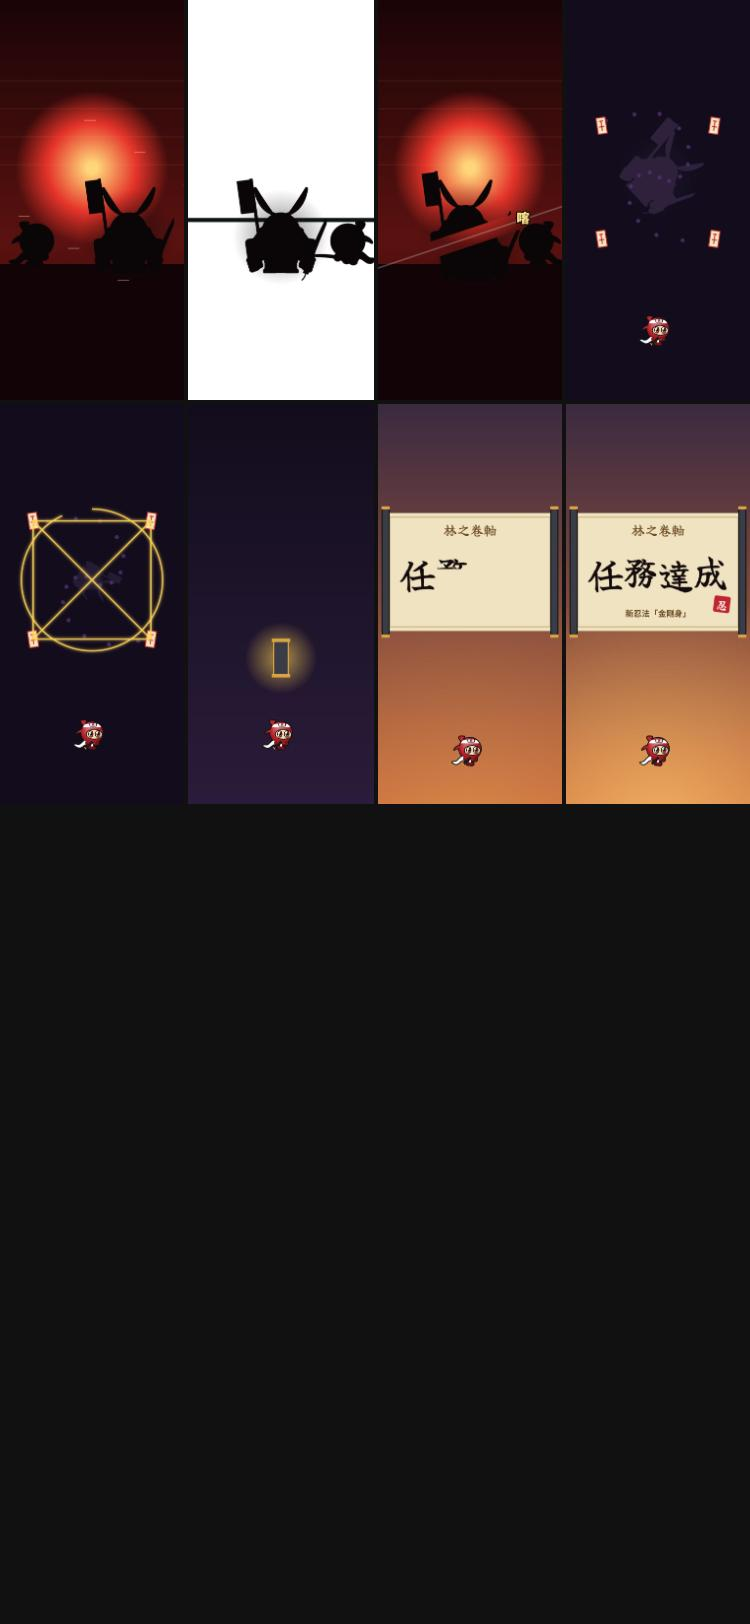
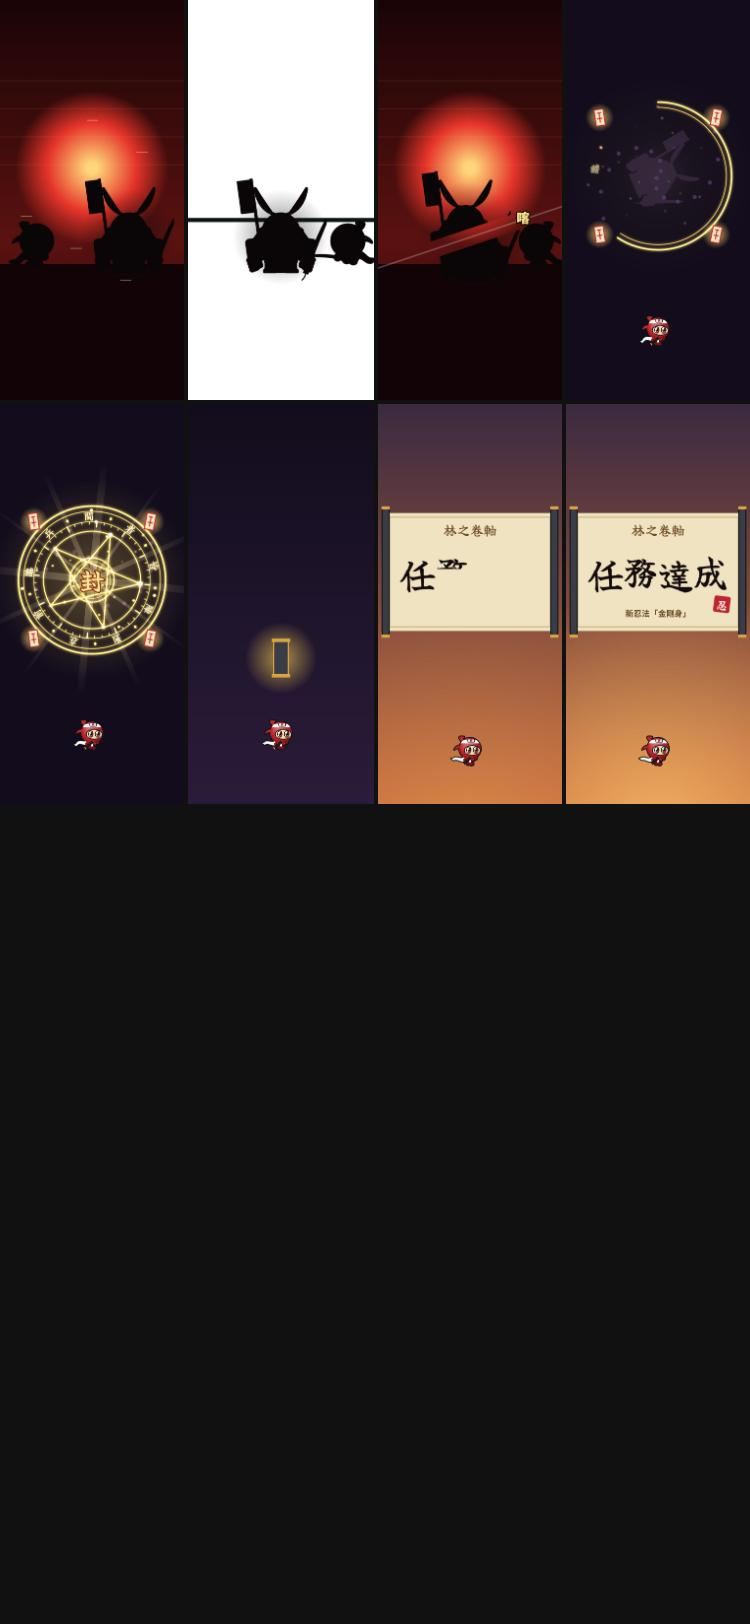
封印陣改為華麗版：外圈雙環、九字環（臨兵闘者皆陣烈在前）、反向刻度環、五芒星與光珠、內圈「封」、放射光與飄升光點；九字加入毛筆字子集（v77）

Changed region(s): [[0.0, 0.3079, 0.2453, 0.431], [0.7667, 0.0616, 0.9813, 0.1539], [0.7667, 0.0616, 0.828, 0.0924]]

diff --git a/game.js b/game.js
@@ -344,7 +344,7 @@ function musicFor() {
 function vib(ms) { if (save.opt.vib && navigator.vibrate) try { navigator.vibrate(ms); } catch (e) { } }
 
 // ===== 畫面尺寸 =====
-const APP_VER = 'v76';   // 顯示在設定頁的診斷資訊，方便對照手機上跑的是哪一版
+const APP_VER = 'v77';   // 顯示在設定頁的診斷資訊，方便對照手機上跑的是哪一版
 const IS_IOS = /iP(hone|ad|od)/.test(navigator.userAgent) || (navigator.platform === 'MacIntel' && navigator.maxTouchPoints > 1);
 // 手機：觸控為主、螢幕短邊小於 600（iPad 與電腦不算）
 const IS_PHONE = matchMedia('(pointer: coarse)').matches && Math.min(screen.width, screen.height) < 600;
@@ -1688,6 +1688,74 @@ function updateFin(dt) {
   if (at(3.9)) { SFX.impact(); vib(40); }
   if (g.finT >= FIN_T) { if (g.preview) { g.finT = 0; if (ac && musV()) BGM.jingle(ac, 'finish'); } else finishBoss(true); }   // ?finshow 預覽：重播、不寫存檔
 }
+// 封印陣：外圈雙環＋九字環（臨兵闘者皆陣烈在前）＋反向旋轉的刻度環＋五芒星＋內圈「封」，依進度 L 依序浮現；k＝整段進度（最後放光）
+function drawSeal(x, y, R, L, k, T) {
+  const G = '255,214,90', ph = f => clamp((L - f[0]) / (f[1] - f[0]), 0, 1);   // 每一層的出現進度
+  ctx.save(); ctx.translate(x, y);
+  // 底光
+  const bg = ctx.createRadialGradient(0, 0, R * .1, 0, 0, R * 1.35); bg.addColorStop(0, `rgba(${G},${.28 * L})`); bg.addColorStop(.7, `rgba(${G},${.08 * L})`); bg.addColorStop(1, `rgba(${G},0)`);
+  ctx.fillStyle = bg; ctx.fillRect(-R * 1.4, -R * 1.4, R * 2.8, R * 2.8);
+  ctx.globalCompositeOperation = 'lighter'; ctx.shadowColor = `rgb(${G})`; ctx.lineCap = 'round';
+  const ring = (r, w, p, a = 1) => { if (p <= 0) return; ctx.strokeStyle = `rgba(${G},${a})`; ctx.lineWidth = w; ctx.shadowBlur = 10; ctx.beginPath(); ctx.arc(0, 0, r, -Math.PI / 2, -Math.PI / 2 + TAU * p); ctx.stroke(); };
+  // ① 外圈雙環
+  const p1 = ph([0, .3]); ring(R, 3, p1); ring(R * .93, 1.5, p1, .8);
+  // ② 九字環：在兩圈之間繞著轉
+  const p2 = ph([.15, .55]), rot = T * .35;
+  if (p2 > 0) {
+    const W9 = [...'臨兵闘者皆陣烈在前'];
+    ctx.font = `${Math.round(R * .14)}px ${BRUSH}`; ctx.textAlign = 'center'; ctx.textBaseline = 'middle'; ctx.shadowBlur = 8;
+    W9.forEach((ch, i) => {
+      const a = rot + i / W9.length * TAU, v = clamp(p2 * W9.length - i, 0, 1); if (v <= 0) return;
+      ctx.save(); ctx.rotate(a); ctx.translate(0, -R * .865); ctx.globalCompositeOperation = 'source-over';   // 字用一般疊色，才不會被光暈吃掉
+      ctx.fillStyle = `rgba(255,244,205,${v})`; ctx.fillText(ch, 0, 0); ctx.restore();
+      ctx.save(); ctx.rotate(a + TAU / W9.length / 2); ctx.fillStyle = `rgba(${G},${v * .9})`; ctx.beginPath(); ctx.moveTo(0, -R * .89); ctx.lineTo(3, -R * .865); ctx.lineTo(0, -R * .84); ctx.lineTo(-3, -R * .865); ctx.closePath(); ctx.fill(); ctx.restore();   // 字與字之間的菱形
+    });
+  }
+  // ③ 刻度環（反向旋轉）
+  const p3 = ph([.3, .6]);
+  if (p3 > 0) {
+    ring(R * .79, 1.2, p3, .9);
+    ctx.save(); ctx.rotate(-T * .6); ctx.strokeStyle = `rgba(${G},${.85 * p3})`; ctx.shadowBlur = 4;
+    for (let i = 0; i < 48; i++) { const a = i / 48 * TAU, l = i % 4 ? 5 : 10; ctx.lineWidth = i % 4 ? 1 : 2; ctx.beginPath(); ctx.moveTo(Math.cos(a) * R * .79, Math.sin(a) * R * .79); ctx.lineTo(Math.cos(a) * (R * .79 - l), Math.sin(a) * (R * .79 - l)); ctx.stroke(); }
+    ctx.restore();
+  }
+  // ④ 五芒星＋外接圓（跟著九字環慢慢轉），頂點有光珠
+  const p4 = ph([.45, .8]);
+  if (p4 > 0) {
+    const r5 = R * .66; ring(r5, 2, p4, .9);
+    ctx.save(); ctx.rotate(rot * .6); ctx.strokeStyle = `rgba(${G},.95)`; ctx.lineWidth = 2.4; ctx.shadowBlur = 12;
+    const pts = [0, 2, 4, 1, 3, 0].map(i => [Math.cos(-Math.PI / 2 + i * TAU / 5) * r5, Math.sin(-Math.PI / 2 + i * TAU / 5) * r5]);
+    ctx.beginPath(); let len = 0; const seg = 5 * p4;
+    ctx.moveTo(pts[0][0], pts[0][1]);
+    for (let i = 1; i < pts.length; i++) { const f = clamp(seg - (i - 1), 0, 1); if (f <= 0) break; ctx.lineTo(pts[i - 1][0] + (pts[i][0] - pts[i - 1][0]) * f, pts[i - 1][1] + (pts[i][1] - pts[i - 1][1]) * f); len++; }
+    ctx.stroke();
+    for (let i = 0; i < 5; i++) if (seg > i) { const a = -Math.PI / 2 + i * TAU / 5, px = Math.cos(a) * r5, py = Math.sin(a) * r5; ctx.fillStyle = 'rgba(255,248,210,.95)'; ctx.beginPath(); ctx.arc(px, py, 3.5 + Math.sin(T * 8 + i) * 1, 0, TAU); ctx.fill(); }
+    ctx.restore();
+  }
+  // ⑤ 內圈＋「封」
+  const p5 = ph([.7, 1]);
+  if (p5 > 0) {
+    ring(R * .3, 2, p5); ring(R * .25, 1, p5, .7);
+  }
+  // 最後：光柱般的放射光
+  if (k > .78) {
+    const f = (k - .78) / .22; ctx.shadowBlur = 0;
+    for (let i = 0; i < 12; i++) { const a = i / 12 * TAU + T * .5, gl = ctx.createLinearGradient(0, 0, Math.cos(a) * R * 1.6, Math.sin(a) * R * 1.6); gl.addColorStop(0, `rgba(255,240,190,${.5 * f})`); gl.addColorStop(1, 'rgba(255,240,190,0)');
+      ctx.strokeStyle = gl; ctx.lineWidth = 6 + (i % 3) * 4; ctx.beginPath(); ctx.moveTo(0, 0); ctx.lineTo(Math.cos(a) * R * 1.6, Math.sin(a) * R * 1.6); ctx.stroke(); }
+  }
+  // 往上飄的金色光點
+  ctx.shadowBlur = 6;
+  for (let i = 0; i < 26; i++) { const u = (T * .5 + i * .137) % 1, a = i * 2.39, r = R * (.2 + (i * .31) % .9); ctx.fillStyle = `rgba(255,230,150,${(1 - u) * L * .9})`; ctx.beginPath(); ctx.arc(Math.cos(a) * r, Math.sin(a) * r * .9 - u * 40, 1.6 + (i % 3) * .6, 0, TAU); ctx.fill(); }
+  // 中央的「封」：深紅描邊＋金字，蓋在所有光的上面
+  const p5b = ph([.7, 1]);
+  if (p5b > 0) {
+    ctx.globalCompositeOperation = 'source-over'; ctx.shadowBlur = 14; ctx.shadowColor = 'rgba(255,214,90,.9)';
+    const s = 1 + .6 * (1 - easeO(p5b)); ctx.scale(s, s);
+    ctx.font = `${Math.round(R * .34)}px ${BRUSH}`; ctx.textAlign = 'center'; ctx.textBaseline = 'middle'; ctx.globalAlpha = p5b;
+    ctx.lineWidth = 5; ctx.strokeStyle = '#6a120c'; ctx.strokeText('封', 0, 2); ctx.fillStyle = '#ffe9a0'; ctx.fillText('封', 0, 2);
+  }
+  ctx.restore();
+}
 function drawFin() {
   const e = g.finT, b = g.boss, fi = g.finInfo || {}, cx = W / 2, T = performance.now() / 1000;
   const bossSil = (x, y, s, col) => drawSil(x, y, 150 * s, 150 * s, 75 * s, 80 * s, col, c2 => drawBoss(b, 0, 0, s, c2));
@@ -1725,22 +1793,17 @@ function drawFin() {
     ctx.save(); ctx.translate(ccx, ccy); ctx.rotate(k * 3); ctx.globalAlpha = .85 - k * .5;
     drawSil(0, 0, 150 * 1.6, 150 * 1.6, 75 * 1.6, 80 * 1.6, '#3a2a4a', c2 => drawBoss(b, 0, 0, 1.6 * (1 - k * .85), c2)); ctx.restore(); ctx.globalAlpha = 1;
     for (let i = 0; i < 16; i++) { const a = i / 16 * TAU + T * 3, r = S * 1.3 * (1 - ((T * .9 + i * .13) % 1)); ctx.fillStyle = 'rgba(80,50,110,.8)'; aCirc(ctx, ccx + Math.cos(a) * r, ccy + Math.sin(a) * r, 4); ctx.fill(); }
-    // 符咒飛到四角
-    const fly = easeO(clamp(k / .35, 0, 1));
+    // 金色封印陣（先畫，符咒蓋在上面）
+    const L = clamp((k - .3) / .5, 0, 1);
+    if (L > 0) drawSeal(ccx, ccy, S * 1.25, L, k, T);
+    // 符咒從主角手中飛到陣的四個斜角
+    const fly = easeO(clamp(k / .3, 0, 1)), FR = S * 1.25 * 1.12;
     corners.forEach(([sx, sy]) => {
-      const x = cx + (sx * S) * fly, y = H * .86 - 40 + (ccy + sy * S - (H * .86 - 40)) * fly;
-      ctx.save(); ctx.translate(x, y); ctx.rotate(sx * .15); ctx.fillStyle = '#f4e8c0'; ctx.fillRect(-9, -16, 18, 32); ctx.strokeStyle = '#c0262d'; ctx.lineWidth = 2; ctx.strokeRect(-9, -16, 18, 32);
+      const tx = ccx + sx * FR * .7071, ty = ccy + sy * FR * .7071, x = cx + (tx - cx) * fly, y = H * .86 - 40 + (ty - (H * .86 - 40)) * fly;
+      if (fly >= 1) { ctx.save(); ctx.globalCompositeOperation = 'lighter'; const gl = ctx.createRadialGradient(x, y, 2, x, y, 28); gl.addColorStop(0, 'rgba(255,214,90,.7)'); gl.addColorStop(1, 'rgba(255,214,90,0)'); ctx.fillStyle = gl; ctx.fillRect(x - 30, y - 30, 60, 60); ctx.restore(); }
+      ctx.save(); ctx.translate(x, y); ctx.rotate(sx * .15 + Math.sin(T * 6 + sx) * .05); ctx.fillStyle = '#f4e8c0'; ctx.fillRect(-9, -16, 18, 32); ctx.strokeStyle = '#c0262d'; ctx.lineWidth = 2; ctx.strokeRect(-9, -16, 18, 32);
       ctx.beginPath(); ctx.moveTo(-4, -9); ctx.lineTo(4, -9); ctx.moveTo(0, -9); ctx.lineTo(0, 10); ctx.moveTo(-5, 2); ctx.lineTo(5, 2); ctx.stroke(); ctx.restore();
     });
-    // 金色封印陣：四方形＋對角線＋圓，依序畫出來
-    const L = clamp((k - .35) / .4, 0, 1);
-    if (L > 0) {
-      ctx.strokeStyle = `rgba(255,214,90,${.9})`; ctx.lineWidth = 3; ctx.shadowColor = '#ffd25a'; ctx.shadowBlur = 12;
-      ctx.beginPath(); ctx.rect(ccx - S, ccy - S, S * 2, S * 2); ctx.globalAlpha = L; ctx.stroke();
-      ctx.beginPath(); ctx.moveTo(ccx - S, ccy - S); ctx.lineTo(ccx + S, ccy + S); ctx.moveTo(ccx + S, ccy - S); ctx.lineTo(ccx - S, ccy + S); ctx.stroke();
-      ctx.beginPath(); ctx.arc(ccx, ccy, S * 1.2, -Math.PI / 2, -Math.PI / 2 + TAU * L); ctx.stroke();
-      ctx.shadowBlur = 0; ctx.globalAlpha = 1;
-    }
     drawNinja(cx, H * .86, { face: 1, t: T, vy: 0, skin: save.skin, pose: 'apex' });
   } else {   // ⑤ 化為卷軸 → ⑥ 展開
     const [rc, ec] = MAKI_COL[fi.kind] || MAKI_COL[3];
@@ -2964,7 +3027,7 @@ document.addEventListener('click', e => {
 });
 
 applyLang();
-try { document.fonts.load('80px "Yuji Boku"', '豪天翔任務達成金剛身夢幻術雪華封鬼神斬風林火山之卷軸秘忍'); } catch (e) { }   // 先載好豪天翔卷軸的毛筆字（canvas 不會自己等字型）
+try { document.fonts.load('80px "Yuji Boku"', '豪天翔任務達成金剛身夢幻術雪華封鬼神斬風林火山之卷軸秘忍臨兵闘者皆陣烈在前'); } catch (e) { }   // 先載好豪天翔卷軸的毛筆字（canvas 不會自己等字型）
 buildHeroArt();   // 產生標題大圖與商店頭像（程式畫的主角）
 goTitle();
 if ('serviceWorker' in navigator && location.protocol.startsWith('http')) navigator.serviceWorker.register('sw.js').catch(() => { });

diff --git a/style.css b/style.css
@@ -1,7 +1,7 @@
 /* NINJA 鳶 — 介面風格「竹林夜襲」：月夜竹林、鐵灰金屬面板、金色鉚釘、紅色緞帶，全部粗黑描邊＋上緣高光 */
 @import url("https://fonts.googleapis.com/css2?family=Dela+Gothic+One&family=Noto+Sans+TC:wght@700;900&display=swap");
-/* 毛筆字（Yuji Boku，卷軸用）：只下載用到的字——豪天翔任務達成金剛身夢幻術雪華封鬼神斬風林火山之卷軸秘忍 */
-@import url("https://fonts.googleapis.com/css2?family=Yuji+Boku&display=swap&text=%E8%B1%AA%E5%A4%A9%E7%BF%94%E4%BB%BB%E5%8B%99%E9%81%94%E6%88%90%E9%87%91%E5%89%9B%E8%BA%AB%E5%A4%A2%E5%B9%BB%E8%A1%93%E9%9B%AA%E8%8F%AF%E5%B0%81%E9%AC%BC%E7%A5%9E%E6%96%AC%E9%A2%A8%E6%9E%97%E7%81%AB%E5%B1%B1%E4%B9%8B%E5%8D%B7%E8%BB%B8%E7%A7%98%E5%BF%8D");
+/* 毛筆字（Yuji Boku，卷軸用）：只下載用到的字——豪天翔任務達成金剛身夢幻術雪華封鬼神斬風林火山之卷軸秘忍臨兵闘者皆陣烈在前 */
+@import url("https://fonts.googleapis.com/css2?family=Yuji+Boku&display=swap&text=%E8%B1%AA%E5%A4%A9%E7%BF%94%E4%BB%BB%E5%8B%99%E9%81%94%E6%88%90%E9%87%91%E5%89%9B%E8%BA%AB%E5%A4%A2%E5%B9%BB%E8%A1%93%E9%9B%AA%E8%8F%AF%E5%B0%81%E9%AC%BC%E7%A5%9E%E6%96%AC%E9%A2%A8%E6%9E%97%E7%81%AB%E5%B1%B1%E4%B9%8B%E5%8D%B7%E8%BB%B8%E7%A7%98%E5%BF%8D%E8%87%A8%E5%85%B5%E9%97%98%E8%80%85%E7%9A%86%E9%99%A3%E7%83%88%E5%9C%A8%E5%89%8D");
 
 :root {
   --ink: #0e1414;       /* 描邊 */

diff --git a/sw.js b/sw.js
@@ -1,5 +1,5 @@
 // 離線快取：網路優先（拿到新版就更新快取），離線時才用快取
-const CACHE = 'tobi-v76';
+const CACHE = 'tobi-v77';
 const FILES = ['./', 'index.html', 'style.css', 'lang.js', 'music.js', 'art.js', 'foes2.js', 'chars.js', 'sidebg.js', 'cut.js', 'game.js', 'ads.js', 'stagefx.js', 'levels.js', 'tutorial.js', 'help.js', 'history.js', 'manifest.webmanifest', 'assets/icon-64.png', 'assets/icon-512.png', 'assets/hero.png', 'assets/logo.webp', 'assets/team_logo.webp', 'assets/icon-180.png', 'assets/icon-192.png'];
 self.addEventListener('install', e => { e.waitUntil(caches.open(CACHE).then(c => c.addAll(FILES))); self.skipWaiting(); });
 self.addEventListener('activate', e => {
